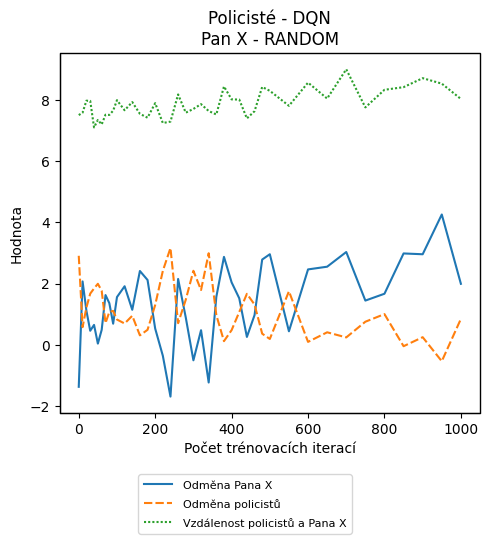
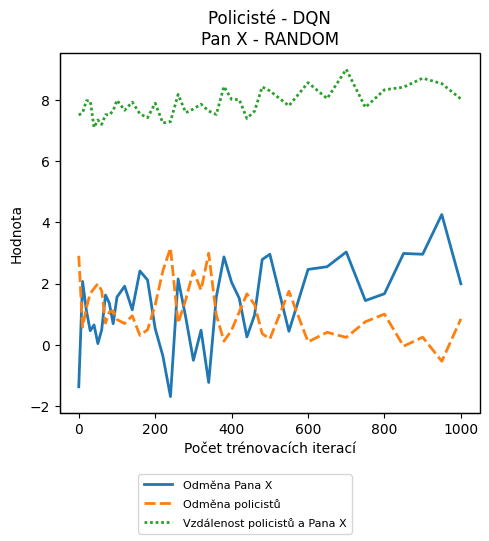
Better graphs

diff --git a/simulation.py b/simulation.py
@@ -5,4 +5,4 @@ if __name__ == '__main__':
                                       verbose=True,
                                       simulation_experiment=True)
     #simulation.run_simulation_experiment()
-    #simulation.run_train_experiment().cleanup()
+    simulation.run_train_experiment().cleanup()

diff --git a/src/SimulationProcessor.py b/src/SimulationProcessor.py
@@ -46,6 +46,7 @@ class SimulationProcessor:
             hue='variable',
             style='variable',
             kind='line',
+            lw=2,
             errorbar=None,
             facet_kws=dict(legend_out=False),
             data=dataframe.melt(id_vars='train_iteration',
